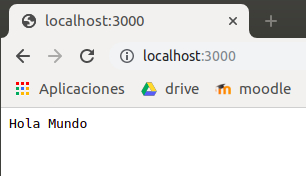
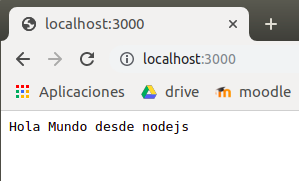
Finalizando: Punto 2

diff --git a/sitioNode/backend/index.js b/sitioNode/backend/index.js
@@ -1,0 +1,20 @@
+
+var http = require('http');
+
+
+var server = http.createServer();
+
+
+
+function mensaje(petic, resp) {
+	resp.writeHead(200, {'content-type': 'text/plain'});
+	resp.write('Hola Mundo desde nodejs');
+	resp.end();
+}
+
+server.on('request', mensaje);
+
+
+server.listen(3000, function () {
+  	console.log('La Aplicación está funcionando en el puerto 3000');
+});

diff --git a/README.md b/README.md
@@ -306,6 +306,10 @@ COnfirmarmos que nuestra aplicación funciona y se ejecuta por el puerto 3000.
   sudo a2ensite sitioNode.conf 
   ```
 
+- Para que apache pueda ejecutar la aplicación node necesitamos añadir la directiva ProxyPass al archivo de configuración de nuestro host:
+
+  ![img](img/captura32.png)
+
 - Reiniciamos servidor
 
   ```
@@ -323,6 +327,49 @@ COnfirmarmos que nuestra aplicación funciona y se ejecuta por el puerto 3000.
 - Verificamos que el sitio funciona en el navegador
 
   
+ ![img](img/captura33.png)
+
+
+ - Dispone de un directorio /public_files cuyo contenido se listará al acceder a http://localhost:81/public_files. El acceso a dicho directorio estará restringido a aquellos usuarios conocidos por el sistema. Las directivas necesarias estarán en un fichero .htaccess
+
+- Los ficheros **htaccess** son ficheros de configuración de apache que nos permiten definir directivas a nivel de directorio sin necesidad de ser administradores del servidor.
+
+- Creamos el directorio public_files dentro de /var/wwww/sitioNode/ y añadimos 3 archivos html en el interior
+
+![img](img/captura34.png)
+
+
+- Añadimos un Alias al archivo de configuración de nuestro host para poder acceder al contenido de la carpeta
+
+![img](img/captura36.png)
+
+- Verificamos sintaxis y relanzamos servidor.
+
+
+- Sobre el directorio, añadimos un htaccess con el siguiente contenido:
+
+![img](img/captura35.png) //ESTA MAL
+
+- Una de las caraterísticas de los ficheros de configuración htaccess es que no necesitamos reiniciar el servidor para que los cambios se activen.
+- Una de las desventajas es que no podemos verificar la sintaxis.
+
+- Para que el fichero htaccess funcione, es necesario que el administrador del servidor nos otorgue permisos de sobreescritura, por lo tanto, nos dirigimos al archivo de configuración de apache _/etc/apache2/apache2.conf_ y en la sección de Directory añadimos la siguiente directiva:
+
+
+
+
+
+
+
+
+
+
+
+
+
+Al acceder a http://localhost:81/documentación se producirá una redirección
+a la página oficial de nodejs (https://nodejs.org/en/)
+
 
 
 
